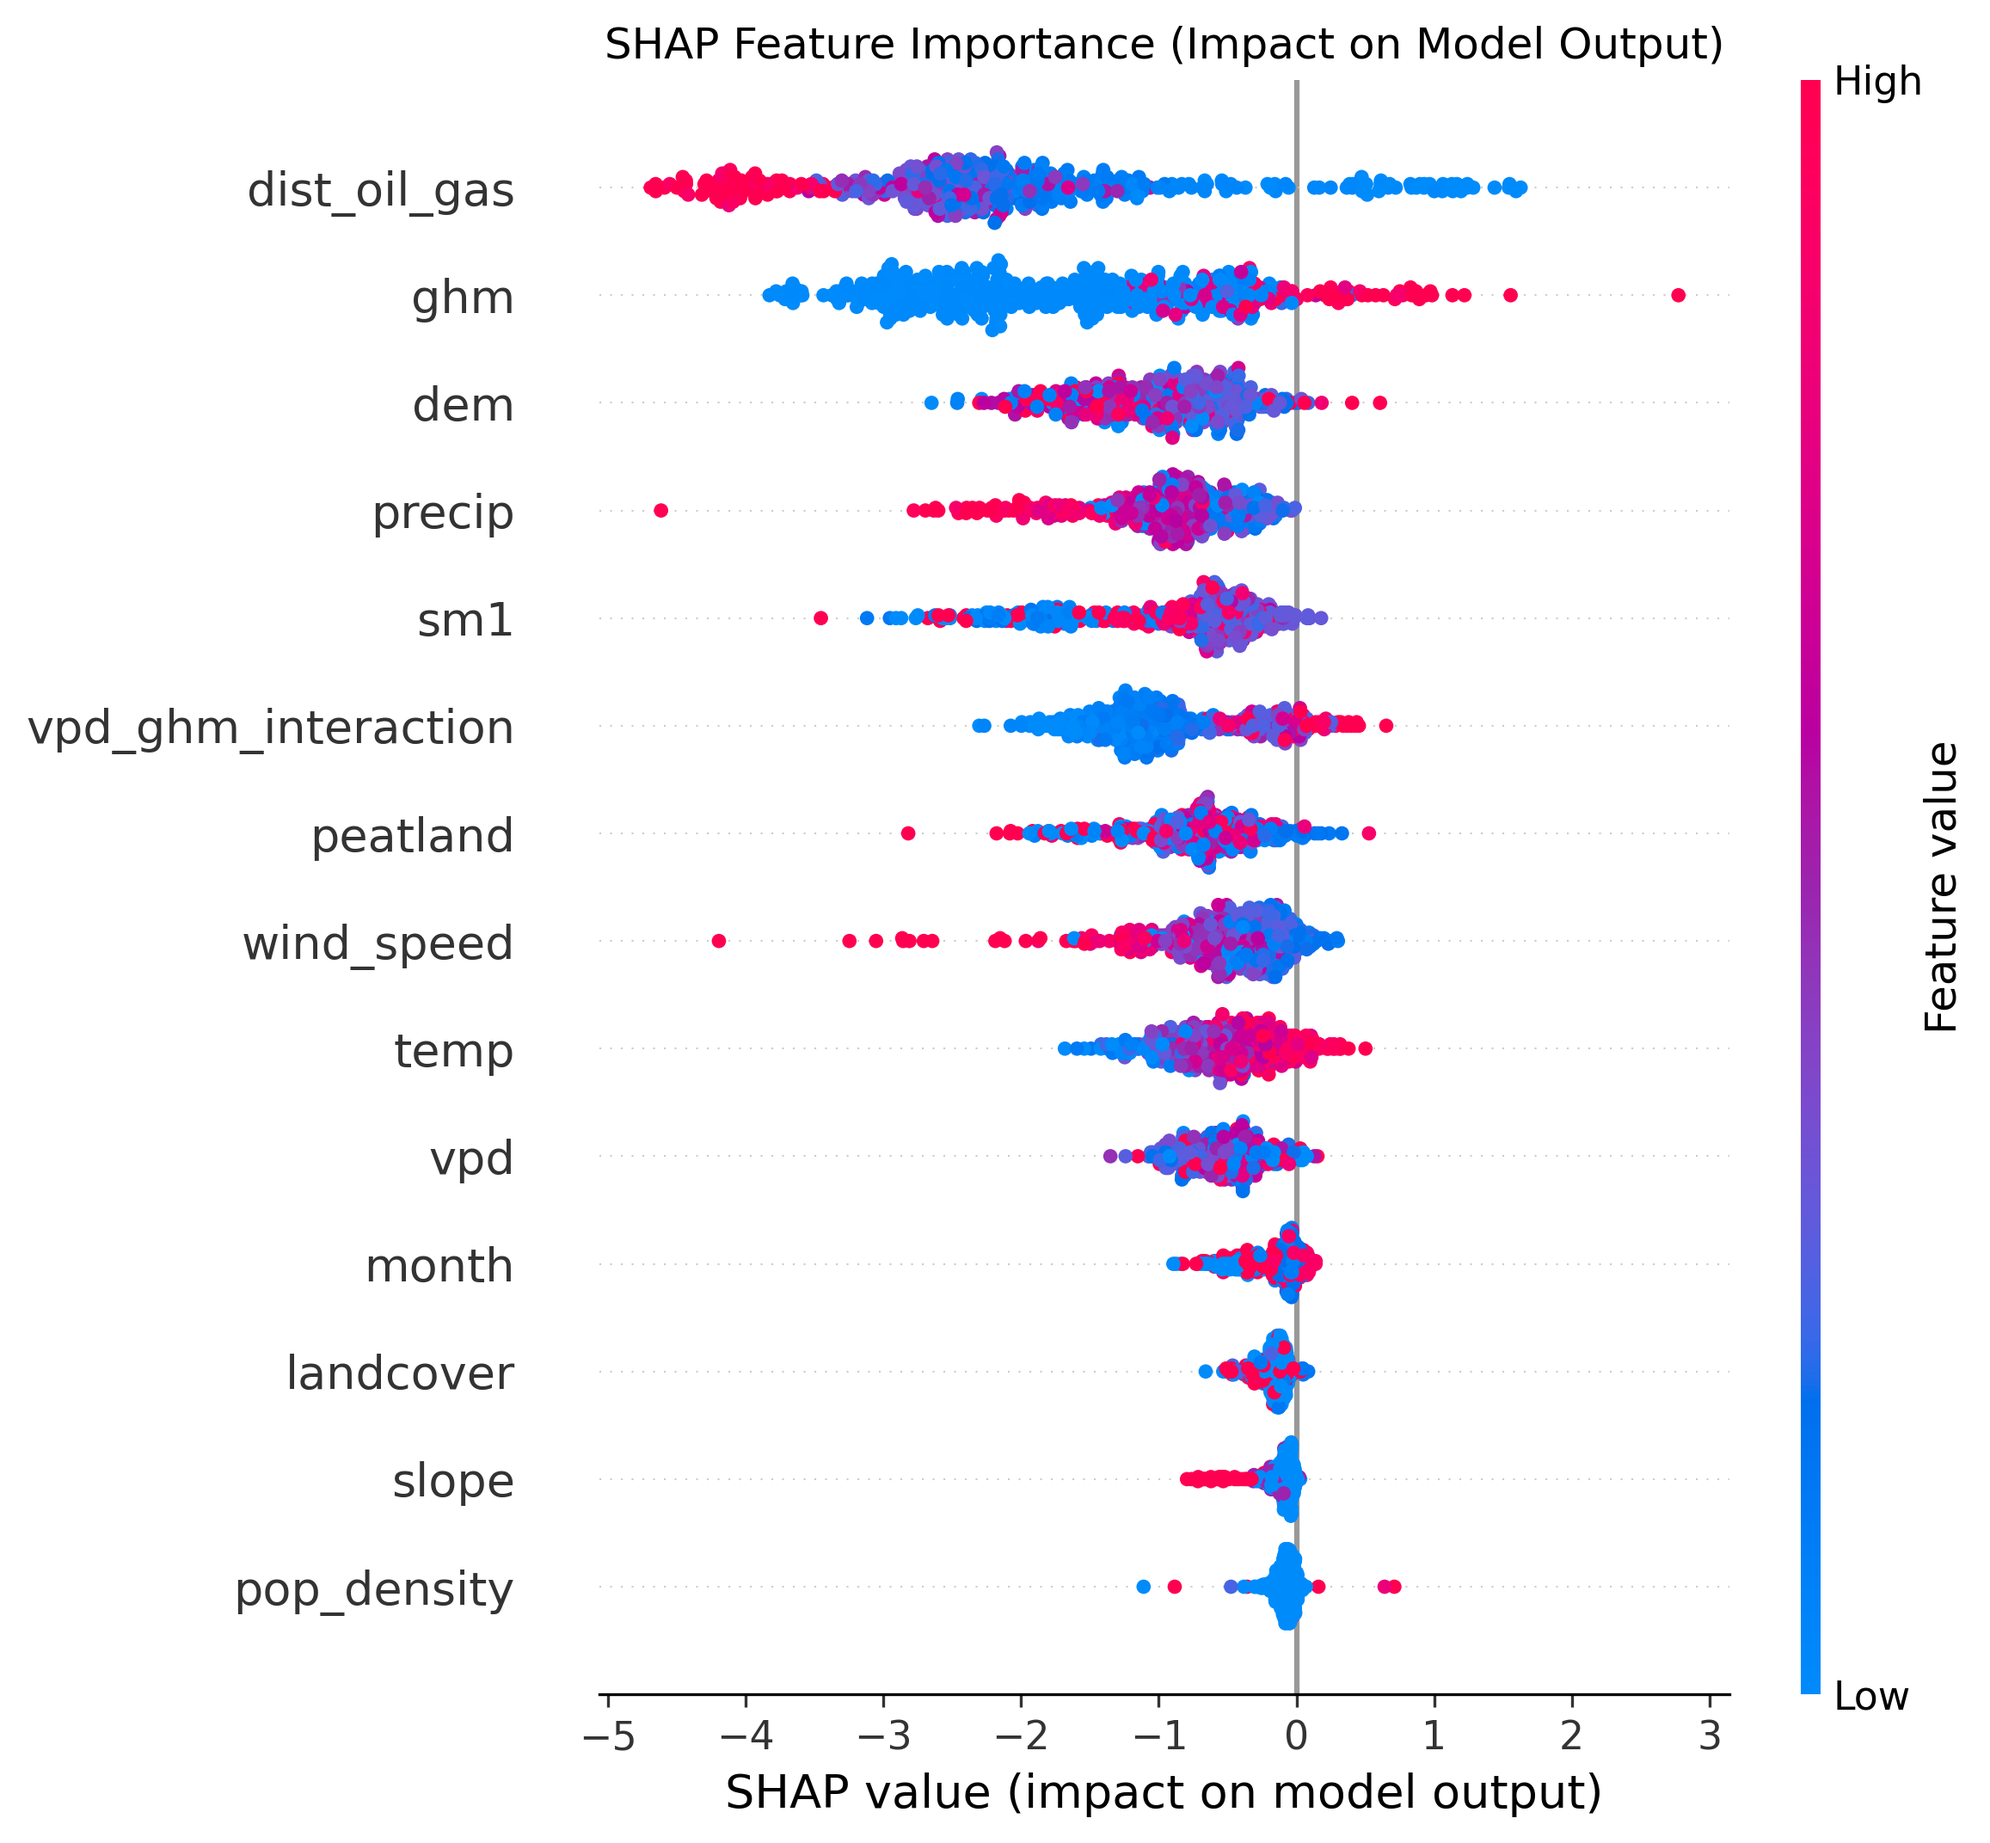
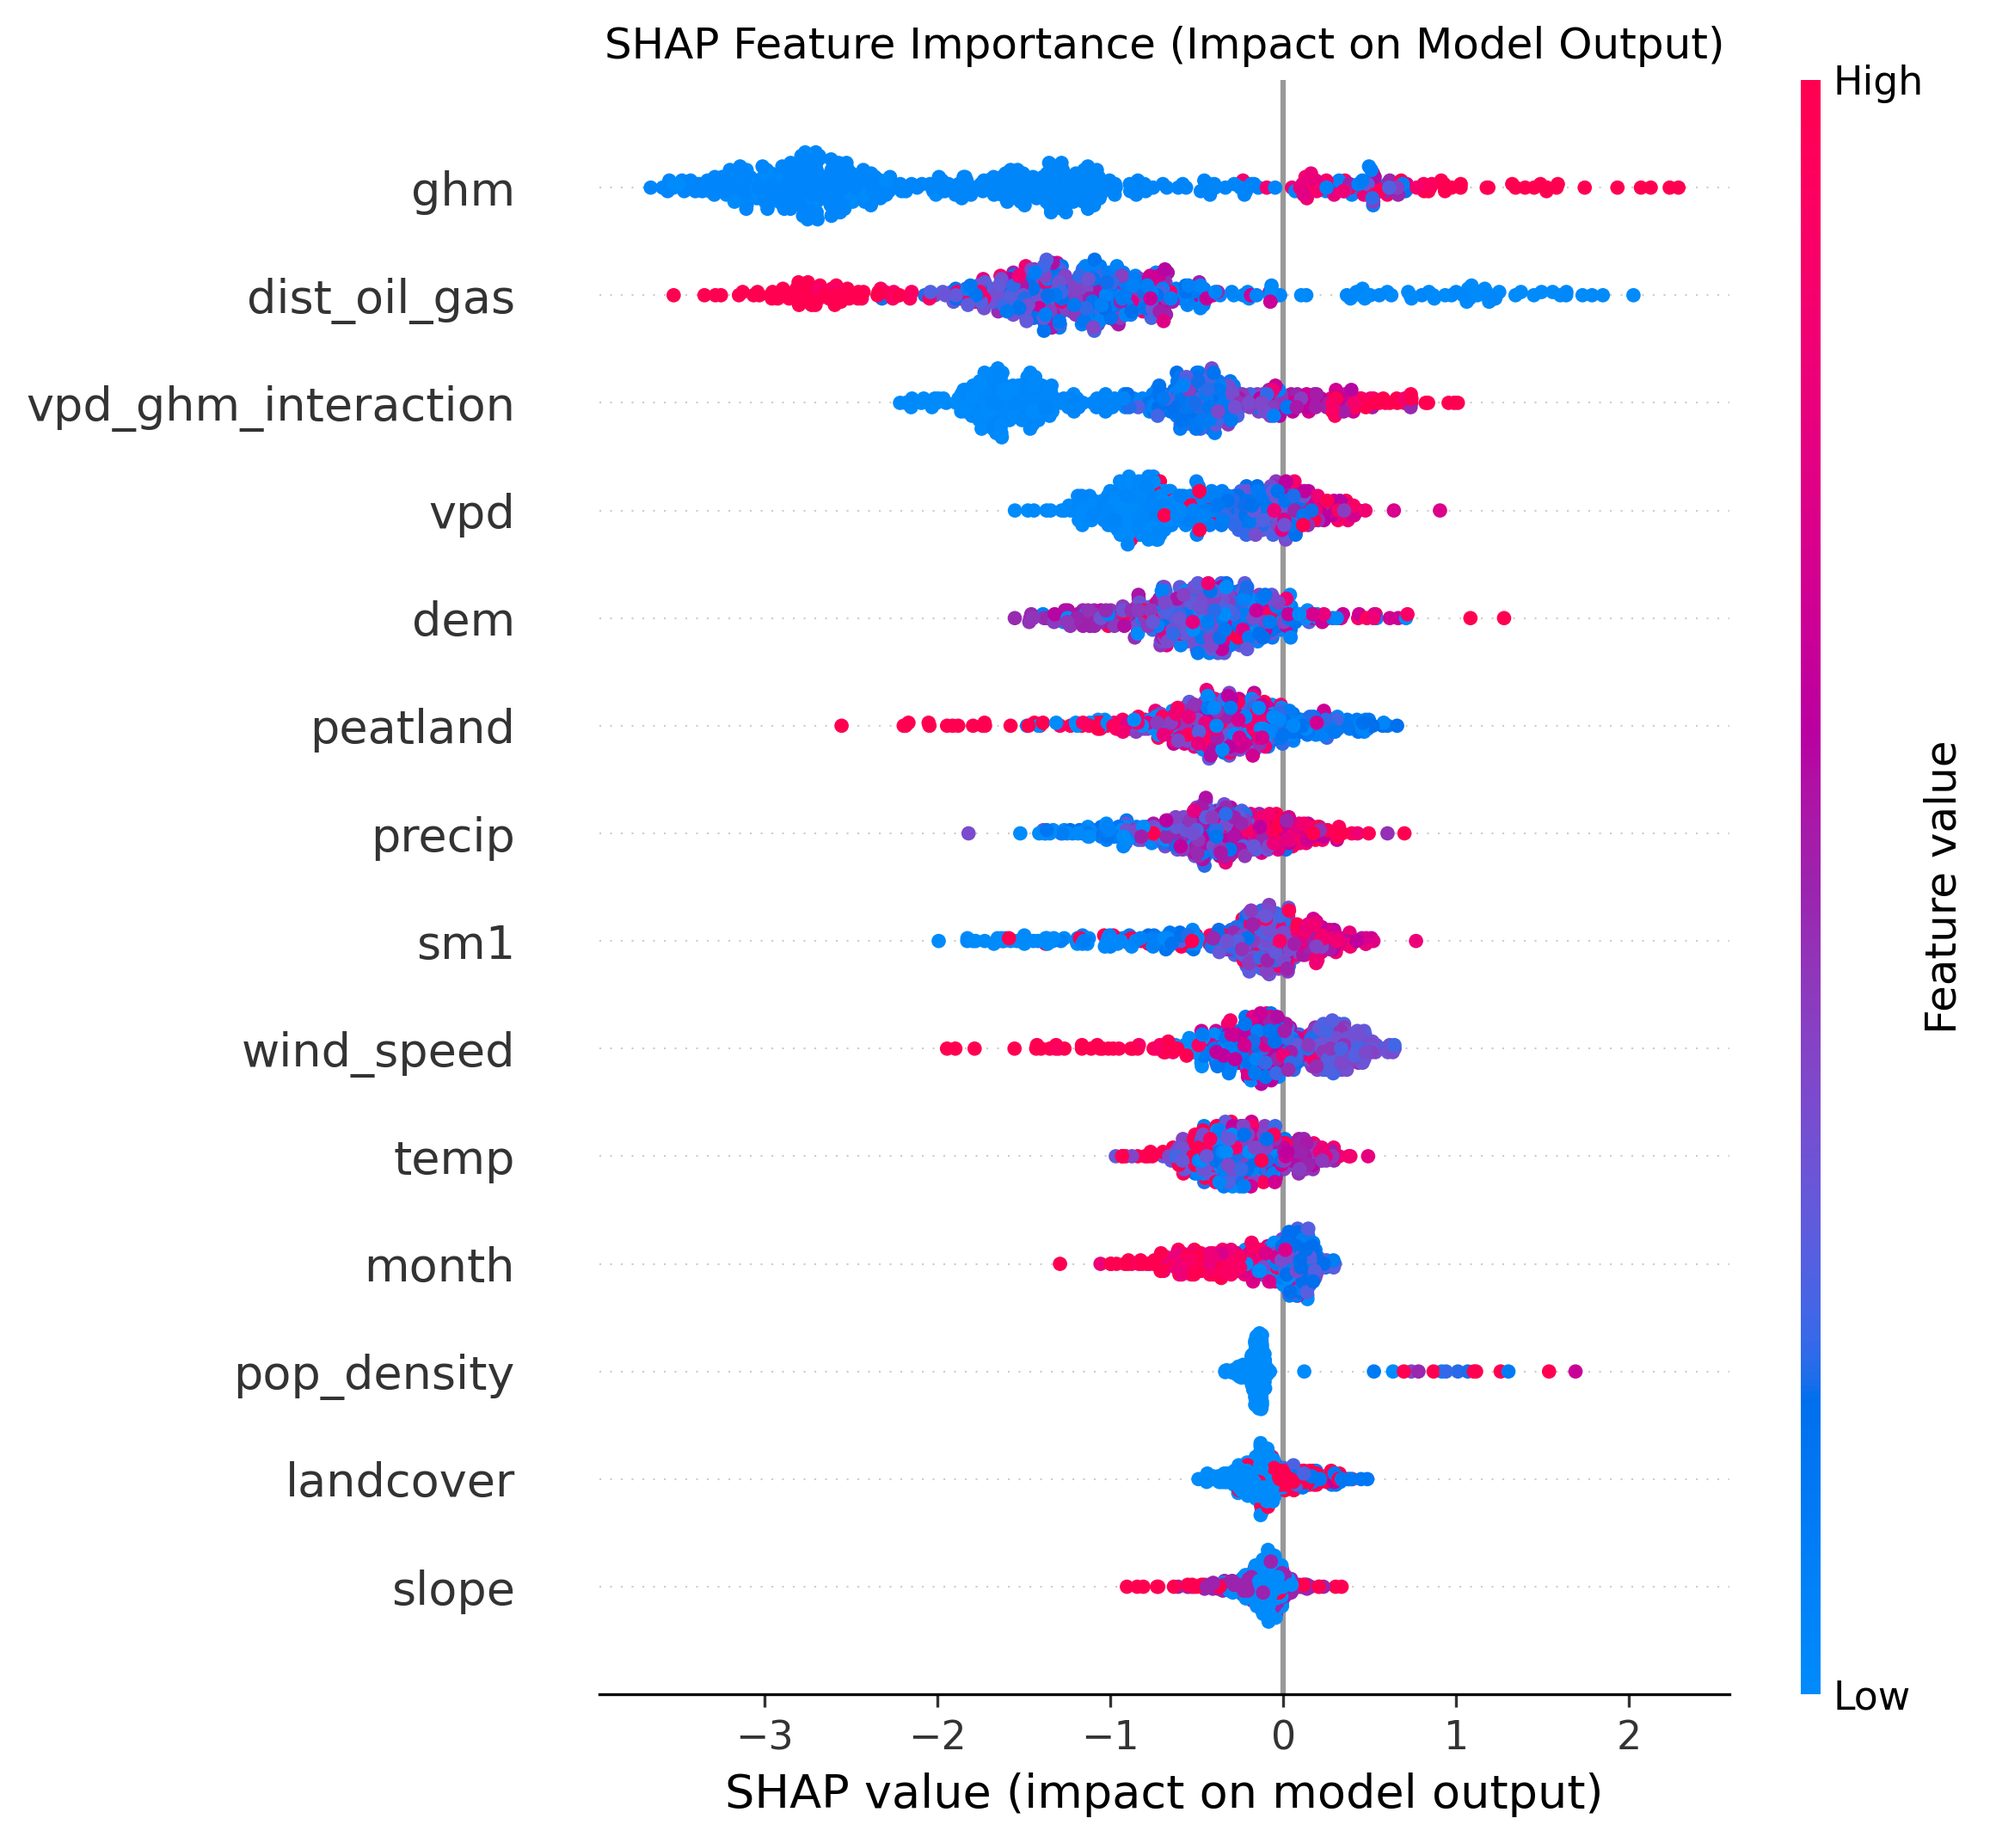
downsampling

diff --git a/src/data/split.py b/src/data/split.py
@@ -1,5 +1,9 @@
 from sklearn.model_selection import train_test_split
 import pandas as pd
+import logging
+
+logger = logging.getLogger(__name__)
+logging.basicConfig(level=logging.INFO, format='%(asctime)s - %(name)s - %(levelname)s - %(message)s')
 
 def temporal_split(
     df: pd.DataFrame,
@@ -7,12 +11,21 @@ def temporal_split(
     val_size: float = 0.15
 ):
     df = df.sort_values('valid_time')
+    extreme_years = sorted(df[df['is_extreme_year'] == 1]['year'].unique())
+    normal_years = sorted(df[df['is_extreme_year'] == 0]['year'].unique())
+    
     val_idx = int(len(df) * (1  - test_size - val_size))
     test_idx = int(len(df) * (1 - test_size))
     
-    train = df.iloc[:val_idx]
-    val = df.iloc[val_idx:test_idx]
-    test = df.iloc[test_idx:]
+    train_years = df.iloc[:val_idx]
+    val_years = df.iloc[val_idx:test_idx]
+    test_years = df.iloc[test_idx:]
+
+    train = df[df['year'].isin(train_years)]
+    val = df[df['year'].isin(val_years)]
+    test = df[df['year'].isin(test_years)]
     
-    logger
-    return train, val, test
+    logger.info(train_years['year'].unique())
+    
+    logger.info(test_years['year'].unique())
+    return train_years, val_years, test_years

diff --git a/src/process_manager.py b/src/process_manager.py
@@ -97,8 +97,8 @@ def wildfire_pipeline():
             tune=False, 
             params=best_params,
             use_smote=True,
-            downsample_ratio=10,
-            smote_ratio=0.3
+            downsample_ratio=3,
+            smote_ratio=0.5
         )
     else:
         pipeline = WildfirePipeline(

diff --git a/src/config.py b/src/config.py
@@ -30,7 +30,7 @@ class Config:
         self.config_file = data
         self.production_mode = data["production"]
 
-    WILDFIRE_SEASON_MONTHS = list(range(4, 11))
+    WILDFIRE_SEASON_MONTHS = list(range(6, 9))
     NON_BURNABLE_CLASSES_LC = [50, 70, 80]
     RANDOM_SEED = 42
     BALANCED_RATIO = 10
